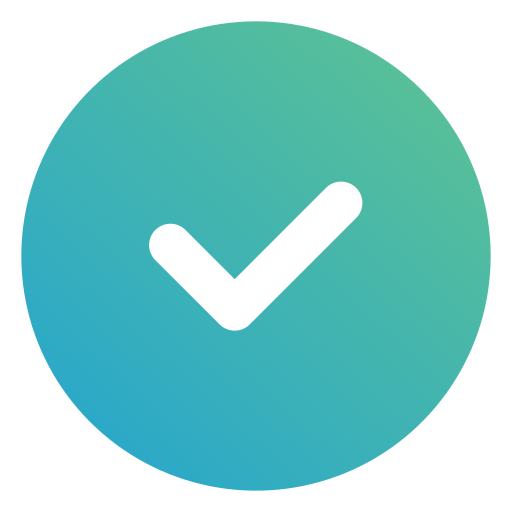
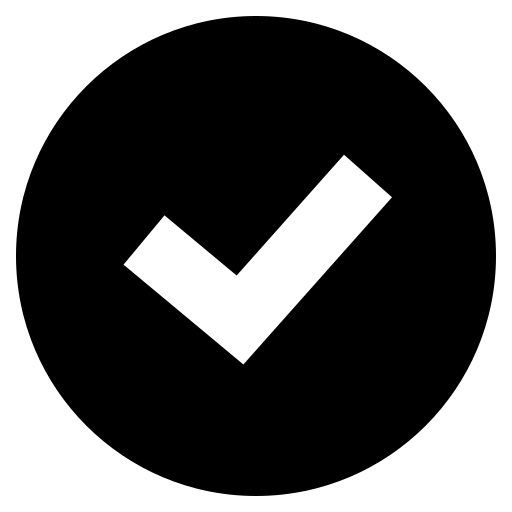
MODIFY : 체크박스 배경 수정

diff --git a/src/pages/SignUp/SignUp.js b/src/pages/SignUp/SignUp.js
@@ -1,11 +1,8 @@
-mport React, { useState, useEffect } from 'react';
+import React, { useState, useEffect } from 'react';
 import { Navigate, useNavigate } from 'react-router-dom';
 import './SignUp.scss';
 
 const SignUp = () => {
-  //체크박스
-  // const isChecked = checkbox.checked;
-
   const navigate = useNavigate();
 
   const [formValue, setFormValue] = useState({
@@ -17,16 +14,6 @@ const SignUp = () => {
     phoneNumberLast: '',
   });
 
-  // const {
-  //   email,
-  //   password,
-  //   checkPassword,
-  //   userName,
-  //   phoneNumberCenter,
-  //   phoneNumberLast,
-  // } = formValue;
-
-  //구조분해할당 - input 값 저장
   const handleForm = e => {
     const { name, value } = e.target;
     setFormValue({
@@ -36,14 +23,6 @@ const SignUp = () => {
   };
   console.log(formValue);
 
-  //테스트: 이메일, 패스워드, 패스워드 확인
-  // const isEmailValid = EmailRegExp.tes(formValue.email);
-  // const isPasswordValid = PasswordRegExp.test(formValue.password);
-  // const isPasswordChecked =
-  //   formValue.password &&
-  //   formValue.checkPassword &&
-  //   formValue.password === formValue.checkPassword;
-
   const emailRegExp =
     /^[0-9a-zA-Z]([-_\.]?[0-9a-zA-Z])*@[0-9a-zA-z]([-_\.]?[0-9a-zA-Z])*\.[a-zA-Z]{2,3}$/;
 
@@ -52,14 +31,7 @@ const SignUp = () => {
   console.log('이메일 유효성 검사:', emailRegExp.test(formValue.email));
   console.log('패스워드 유효성 검사:', passwordRegExp.test(formValue.password));
 
-  //유효성 검사
   const isValidate =
-    // formValue.email.test(
-    //   /^[0-9a-zA-Z]([-_\.]?[0-9a-zA-Z])*@[0-9a-zA-z]([-_\.]?[0-9a-zA-Z])*\.[a-zA-Z]{2,3}$/
-    // ) &&
-    // formValue.password.test(
-    //   /^(?=.*\d)(?=.*[a-z])(?=.*[A-Z])(?!.*\s).{8,12}$/
-    // ) &&
     formValue.password === formValue.passwordCheck &&
     formValue.userName.length >= 2 &&
     formValue.phoneNumberCenter.length == 4 &&
@@ -76,9 +48,6 @@ const SignUp = () => {
     formValue.phoneNumberCenter.length == 4 &&
       formValue.phoneNumberLast.length == 4
   );
-
-  // &&formValue.phoneNumberCenter.length + formValue.phoneNumberCenter.length ==
-  //   8;
 
   const onSignUp = e => {
     e.preventDefault();
@@ -106,10 +75,6 @@ const SignUp = () => {
           alert('회원가입에 실패했습니다!');
         }
       });
-
-    // .catch(error => {
-    //   alert('회원정보를 다시 확인해 주세요.');
-    // });
   };
   return (
     <div className="signUpWrap">

diff --git a/src/pages/SignUp/SignUp.scss b/src/pages/SignUp/SignUp.scss
@@ -94,7 +94,7 @@
   }
   input[type='checkbox'] {
     background: url('../../../public/images/check.png') no-repeat center;
-    background-size: 40px 40px;
+    background-size: 25px 25px;
     cursor: pointer;
     appearance: none;
     width: 1rem;
@@ -106,7 +106,7 @@
   }
   input[type='checkbox']:checked {
     background: url('../../../public/images/checked.png') no-repeat center;
-    background-size: 40px 40px;
+    background-size: 20px 20px;
   }
   label {
     font-size: 22px;
